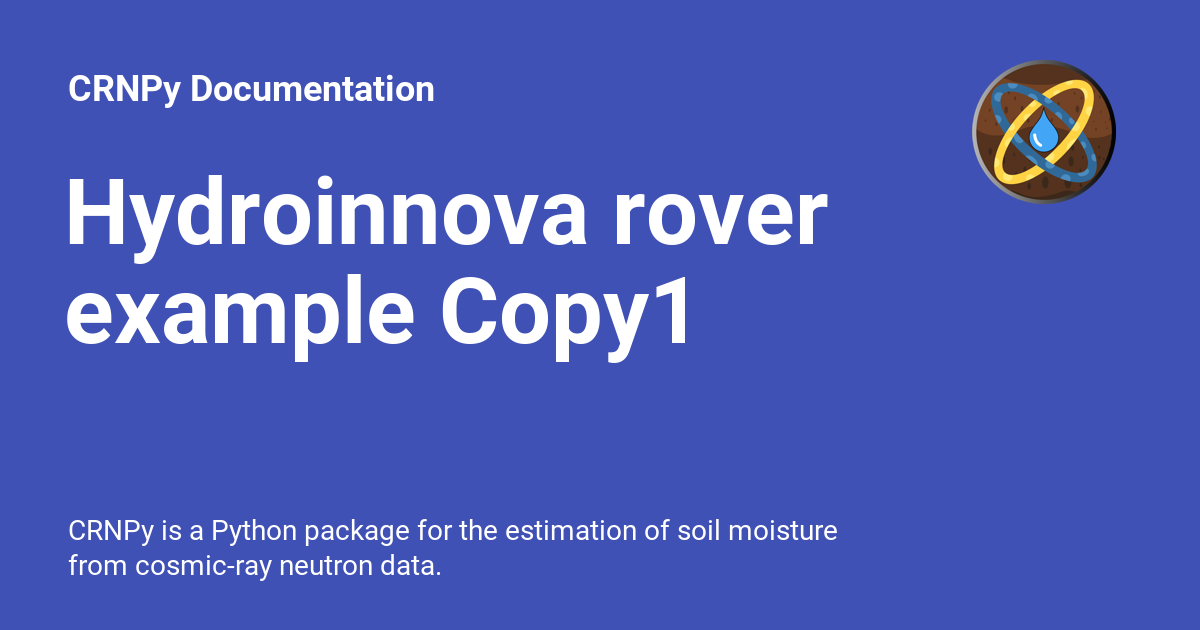
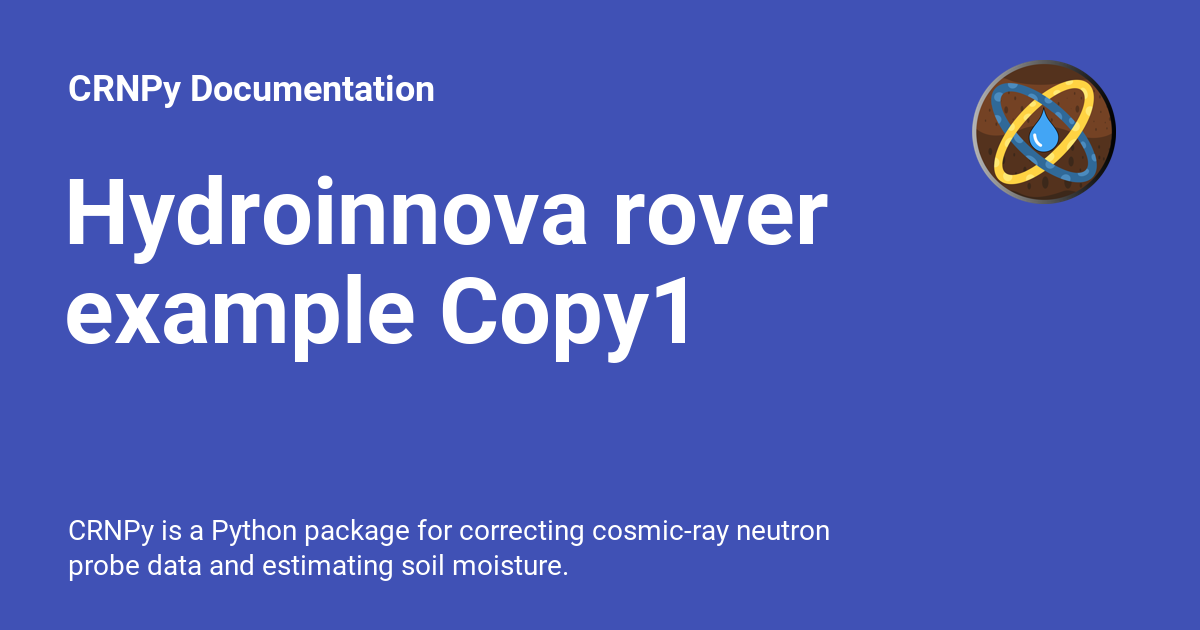
Deployed e4f62d5 with MkDocs version: 1.4.3

Changed region(s): [[0.0617, 0.8143, 0.7092, 0.9349]]

diff --git a/examples/rover/Hydroinnova_rover_example-Copy1/index.html b/examples/rover/Hydroinnova_rover_example-Copy1/index.html
@@ -6,7 +6,7 @@
       <meta charset="utf-8">
       <meta name="viewport" content="width=device-width,initial-scale=1">
       
-        <meta name="description" content="CRNPy is a Python package for the estimation of soil moisture from cosmic-ray neutron data.">
+        <meta name="description" content="CRNPy is a Python package for correcting cosmic-ray neutron probe data and estimating soil moisture.">
       
       
       
@@ -54,7 +54,7 @@
       
         <meta  property="og:title"  content="Hydroinnova rover example Copy1 - CRNPy Documentation" >
       
-        <meta  property="og:description"  content="CRNPy is a Python package for the estimation of soil moisture from cosmic-ray neutron data." >
+        <meta  property="og:description"  content="CRNPy is a Python package for correcting cosmic-ray neutron probe data and estimating soil moisture." >
       
         <meta  property="og:image"  content="https://soilwater.github.io/crnpy/assets/images/social/examples/rover/Hydroinnova_rover_example-Copy1.png" >
       
@@ -70,7 +70,7 @@
       
         <meta  name="twitter:title"  content="Hydroinnova rover example Copy1 - CRNPy Documentation" >
       
-        <meta  name="twitter:description"  content="CRNPy is a Python package for the estimation of soil moisture from cosmic-ray neutron data." >
+        <meta  name="twitter:description"  content="CRNPy is a Python package for correcting cosmic-ray neutron probe data and estimating soil moisture." >
       
         <meta  name="twitter:image"  content="https://soilwater.github.io/crnpy/assets/images/social/examples/rover/Hydroinnova_rover_example-Copy1.png" >
       

diff --git a/examples/calibration/calibration/index.html b/examples/calibration/calibration/index.html
@@ -6,7 +6,7 @@
       <meta charset="utf-8">
       <meta name="viewport" content="width=device-width,initial-scale=1">
       
-        <meta name="description" content="CRNPy is a Python package for the estimation of soil moisture from cosmic-ray neutron data.">
+        <meta name="description" content="CRNPy is a Python package for correcting cosmic-ray neutron probe data and estimating soil moisture.">
       
       
       
@@ -58,7 +58,7 @@
       
         <meta  property="og:title"  content="Device calibration - CRNPy Documentation" >
       
-        <meta  property="og:description"  content="CRNPy is a Python package for the estimation of soil moisture from cosmic-ray neutron data." >
+        <meta  property="og:description"  content="CRNPy is a Python package for correcting cosmic-ray neutron probe data and estimating soil moisture." >
       
         <meta  property="og:image"  content="https://soilwater.github.io/crnpy/assets/images/social/examples/calibration/calibration.png" >
       
@@ -74,7 +74,7 @@
       
         <meta  name="twitter:title"  content="Device calibration - CRNPy Documentation" >
       
-        <meta  name="twitter:description"  content="CRNPy is a Python package for the estimation of soil moisture from cosmic-ray neutron data." >
+        <meta  name="twitter:description"  content="CRNPy is a Python package for correcting cosmic-ray neutron probe data and estimating soil moisture." >
       
         <meta  name="twitter:image"  content="https://soilwater.github.io/crnpy/assets/images/social/examples/calibration/calibration.png" >
       

diff --git a/examples/rover/Hydroinnova_rover_example/index.html b/examples/rover/Hydroinnova_rover_example/index.html
@@ -6,7 +6,7 @@
       <meta charset="utf-8">
       <meta name="viewport" content="width=device-width,initial-scale=1">
       
-        <meta name="description" content="CRNPy is a Python package for the estimation of soil moisture from cosmic-ray neutron data.">
+        <meta name="description" content="CRNPy is a Python package for correcting cosmic-ray neutron probe data and estimating soil moisture.">
       
       
       
@@ -58,7 +58,7 @@
       
         <meta  property="og:title"  content="Example 2 - CRNPy Documentation" >
       
-        <meta  property="og:description"  content="CRNPy is a Python package for the estimation of soil moisture from cosmic-ray neutron data." >
+        <meta  property="og:description"  content="CRNPy is a Python package for correcting cosmic-ray neutron probe data and estimating soil moisture." >
       
         <meta  property="og:image"  content="https://soilwater.github.io/crnpy/assets/images/social/examples/rover/Hydroinnova_rover_example.png" >
       
@@ -74,7 +74,7 @@
       
         <meta  name="twitter:title"  content="Example 2 - CRNPy Documentation" >
       
-        <meta  name="twitter:description"  content="CRNPy is a Python package for the estimation of soil moisture from cosmic-ray neutron data." >
+        <meta  name="twitter:description"  content="CRNPy is a Python package for correcting cosmic-ray neutron probe data and estimating soil moisture." >
       
         <meta  name="twitter:image"  content="https://soilwater.github.io/crnpy/assets/images/social/examples/rover/Hydroinnova_rover_example.png" >
       

diff --git a/examples/stationary/example_RDT_station/index.html b/examples/stationary/example_RDT_station/index.html
@@ -6,7 +6,7 @@
       <meta charset="utf-8">
       <meta name="viewport" content="width=device-width,initial-scale=1">
       
-        <meta name="description" content="CRNPy is a Python package for the estimation of soil moisture from cosmic-ray neutron data.">
+        <meta name="description" content="CRNPy is a Python package for correcting cosmic-ray neutron probe data and estimating soil moisture.">
       
       
       
@@ -58,7 +58,7 @@
       
         <meta  property="og:title"  content="Example 1 - CRNPy Documentation" >
       
-        <meta  property="og:description"  content="CRNPy is a Python package for the estimation of soil moisture from cosmic-ray neutron data." >
+        <meta  property="og:description"  content="CRNPy is a Python package for correcting cosmic-ray neutron probe data and estimating soil moisture." >
       
         <meta  property="og:image"  content="https://soilwater.github.io/crnpy/assets/images/social/examples/stationary/example_RDT_station.png" >
       
@@ -74,7 +74,7 @@
       
         <meta  name="twitter:title"  content="Example 1 - CRNPy Documentation" >
       
-        <meta  name="twitter:description"  content="CRNPy is a Python package for the estimation of soil moisture from cosmic-ray neutron data." >
+        <meta  name="twitter:description"  content="CRNPy is a Python package for correcting cosmic-ray neutron probe data and estimating soil moisture." >
       
         <meta  name="twitter:image"  content="https://soilwater.github.io/crnpy/assets/images/social/examples/stationary/example_RDT_station.png" >
       

diff --git a/examples/overview/index.html b/examples/overview/index.html
@@ -6,7 +6,7 @@
       <meta charset="utf-8">
       <meta name="viewport" content="width=device-width,initial-scale=1">
       
-        <meta name="description" content="CRNPy is a Python package for the estimation of soil moisture from cosmic-ray neutron data.">
+        <meta name="description" content="CRNPy is a Python package for correcting cosmic-ray neutron probe data and estimating soil moisture.">
       
       
       
@@ -58,7 +58,7 @@
       
         <meta  property="og:title"  content="CRNPy Examples Overview - CRNPy Documentation" >
       
-        <meta  property="og:description"  content="CRNPy is a Python package for the estimation of soil moisture from cosmic-ray neutron data." >
+        <meta  property="og:description"  content="CRNPy is a Python package for correcting cosmic-ray neutron probe data and estimating soil moisture." >
       
         <meta  property="og:image"  content="https://soilwater.github.io/crnpy/assets/images/social/examples/overview.png" >
       
@@ -74,7 +74,7 @@
       
         <meta  name="twitter:title"  content="CRNPy Examples Overview - CRNPy Documentation" >
       
-        <meta  name="twitter:description"  content="CRNPy is a Python package for the estimation of soil moisture from cosmic-ray neutron data." >
+        <meta  name="twitter:description"  content="CRNPy is a Python package for correcting cosmic-ray neutron probe data and estimating soil moisture." >
       
         <meta  name="twitter:image"  content="https://soilwater.github.io/crnpy/assets/images/social/examples/overview.png" >
       

diff --git a/correction_routines/index.html b/correction_routines/index.html
@@ -6,7 +6,7 @@
       <meta charset="utf-8">
       <meta name="viewport" content="width=device-width,initial-scale=1">
       
-        <meta name="description" content="CRNPy is a Python package for the estimation of soil moisture from cosmic-ray neutron data.">
+        <meta name="description" content="CRNPy is a Python package for correcting cosmic-ray neutron probe data and estimating soil moisture.">
       
       
       
@@ -58,7 +58,7 @@
       
         <meta  property="og:title"  content="Correction routines - CRNPy Documentation" >
       
-        <meta  property="og:description"  content="CRNPy is a Python package for the estimation of soil moisture from cosmic-ray neutron data." >
+        <meta  property="og:description"  content="CRNPy is a Python package for correcting cosmic-ray neutron probe data and estimating soil moisture." >
       
         <meta  property="og:image"  content="https://soilwater.github.io/crnpy/assets/images/social/correction_routines.png" >
       
@@ -74,7 +74,7 @@
       
         <meta  name="twitter:title"  content="Correction routines - CRNPy Documentation" >
       
-        <meta  name="twitter:description"  content="CRNPy is a Python package for the estimation of soil moisture from cosmic-ray neutron data." >
+        <meta  name="twitter:description"  content="CRNPy is a Python package for correcting cosmic-ray neutron probe data and estimating soil moisture." >
       
         <meta  name="twitter:image"  content="https://soilwater.github.io/crnpy/assets/images/social/correction_routines.png" >
       

diff --git a/reference/index.html b/reference/index.html
@@ -6,7 +6,7 @@
       <meta charset="utf-8">
       <meta name="viewport" content="width=device-width,initial-scale=1">
       
-        <meta name="description" content="CRNPy is a Python package for the estimation of soil moisture from cosmic-ray neutron data.">
+        <meta name="description" content="CRNPy is a Python package for correcting cosmic-ray neutron probe data and estimating soil moisture.">
       
       
       
@@ -56,7 +56,7 @@
       
         <meta  property="og:title"  content="Reference - CRNPy Documentation" >
       
-        <meta  property="og:description"  content="CRNPy is a Python package for the estimation of soil moisture from cosmic-ray neutron data." >
+        <meta  property="og:description"  content="CRNPy is a Python package for correcting cosmic-ray neutron probe data and estimating soil moisture." >
       
         <meta  property="og:image"  content="https://soilwater.github.io/crnpy/assets/images/social/reference.png" >
       
@@ -72,7 +72,7 @@
       
         <meta  name="twitter:title"  content="Reference - CRNPy Documentation" >
       
-        <meta  name="twitter:description"  content="CRNPy is a Python package for the estimation of soil moisture from cosmic-ray neutron data." >
+        <meta  name="twitter:description"  content="CRNPy is a Python package for correcting cosmic-ray neutron probe data and estimating soil moisture." >
       
         <meta  name="twitter:image"  content="https://soilwater.github.io/crnpy/assets/images/social/reference.png" >
       

diff --git a/index.html b/index.html
@@ -6,7 +6,7 @@
       <meta charset="utf-8">
       <meta name="viewport" content="width=device-width,initial-scale=1">
       
-        <meta name="description" content="CRNPy is a Python package for the estimation of soil moisture from cosmic-ray neutron data.">
+        <meta name="description" content="CRNPy is a Python package for correcting cosmic-ray neutron probe data and estimating soil moisture.">
       
       
       
@@ -56,7 +56,7 @@
       
         <meta  property="og:title"  content="Home" >
       
-        <meta  property="og:description"  content="CRNPy is a Python package for the estimation of soil moisture from cosmic-ray neutron data." >
+        <meta  property="og:description"  content="CRNPy is a Python package for correcting cosmic-ray neutron probe data and estimating soil moisture." >
       
         <meta  property="og:image"  content="https://soilwater.github.io/crnpy/assets/images/social/index.png" >
       
@@ -72,7 +72,7 @@
       
         <meta  name="twitter:title"  content="Home" >
       
-        <meta  name="twitter:description"  content="CRNPy is a Python package for the estimation of soil moisture from cosmic-ray neutron data." >
+        <meta  name="twitter:description"  content="CRNPy is a Python package for correcting cosmic-ray neutron probe data and estimating soil moisture." >
       
         <meta  name="twitter:image"  content="https://soilwater.github.io/crnpy/assets/images/social/index.png" >
       

diff --git a/404.html b/404.html
@@ -6,7 +6,7 @@
       <meta charset="utf-8">
       <meta name="viewport" content="width=device-width,initial-scale=1">
       
-        <meta name="description" content="CRNPy is a Python package for the estimation of soil moisture from cosmic-ray neutron data.">
+        <meta name="description" content="CRNPy is a Python package for correcting cosmic-ray neutron probe data and estimating soil moisture.">
       
       
       
